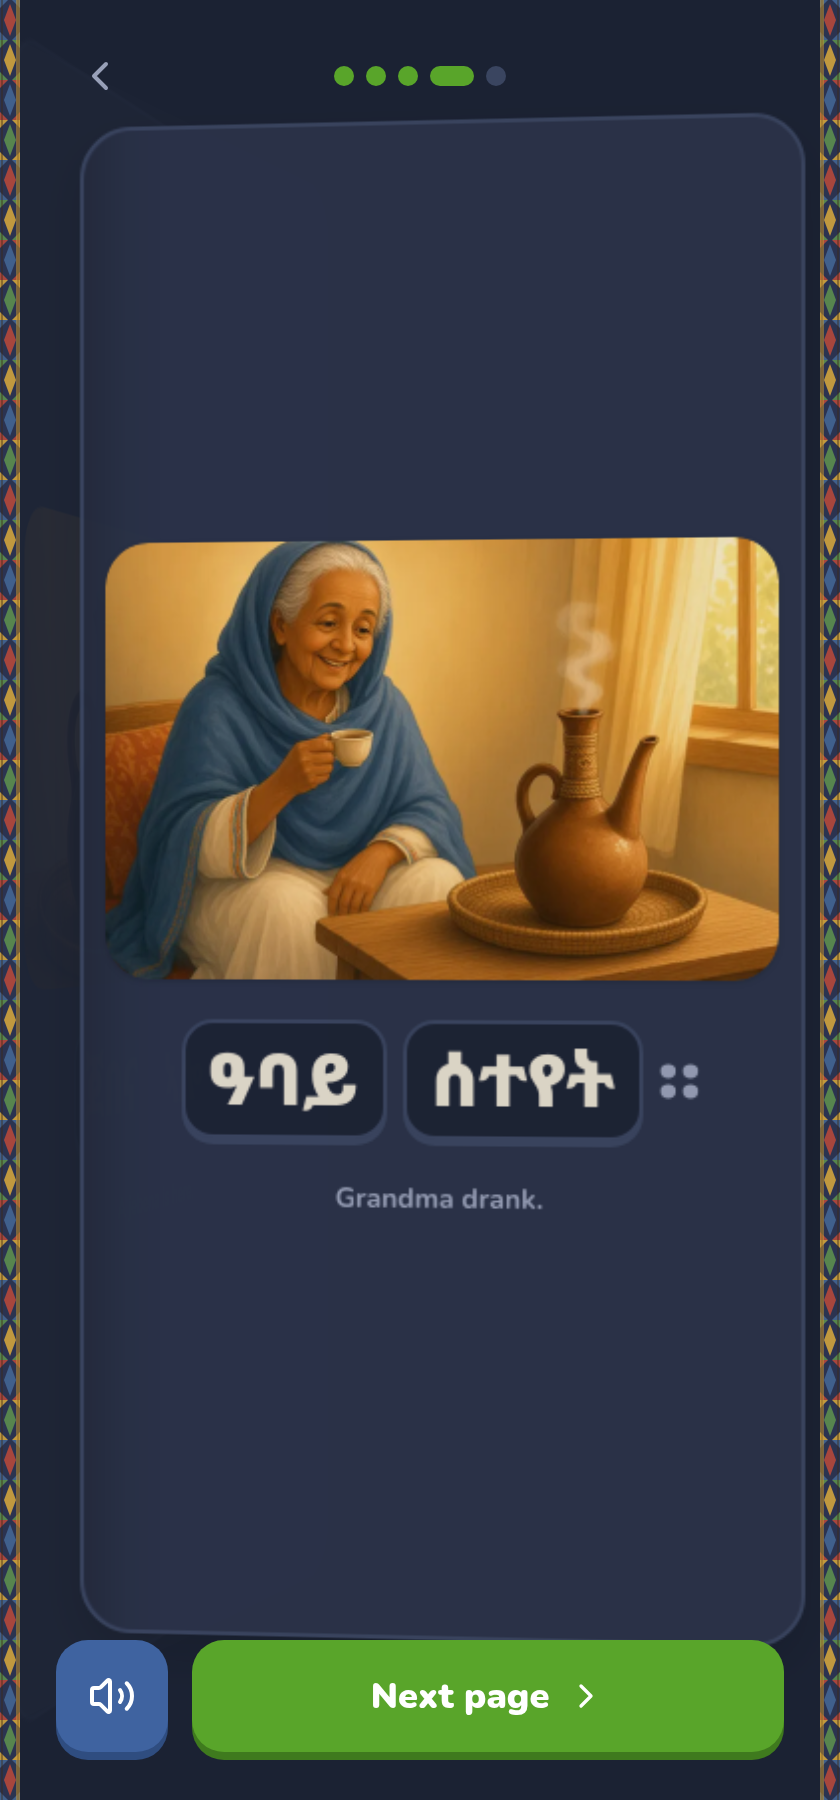
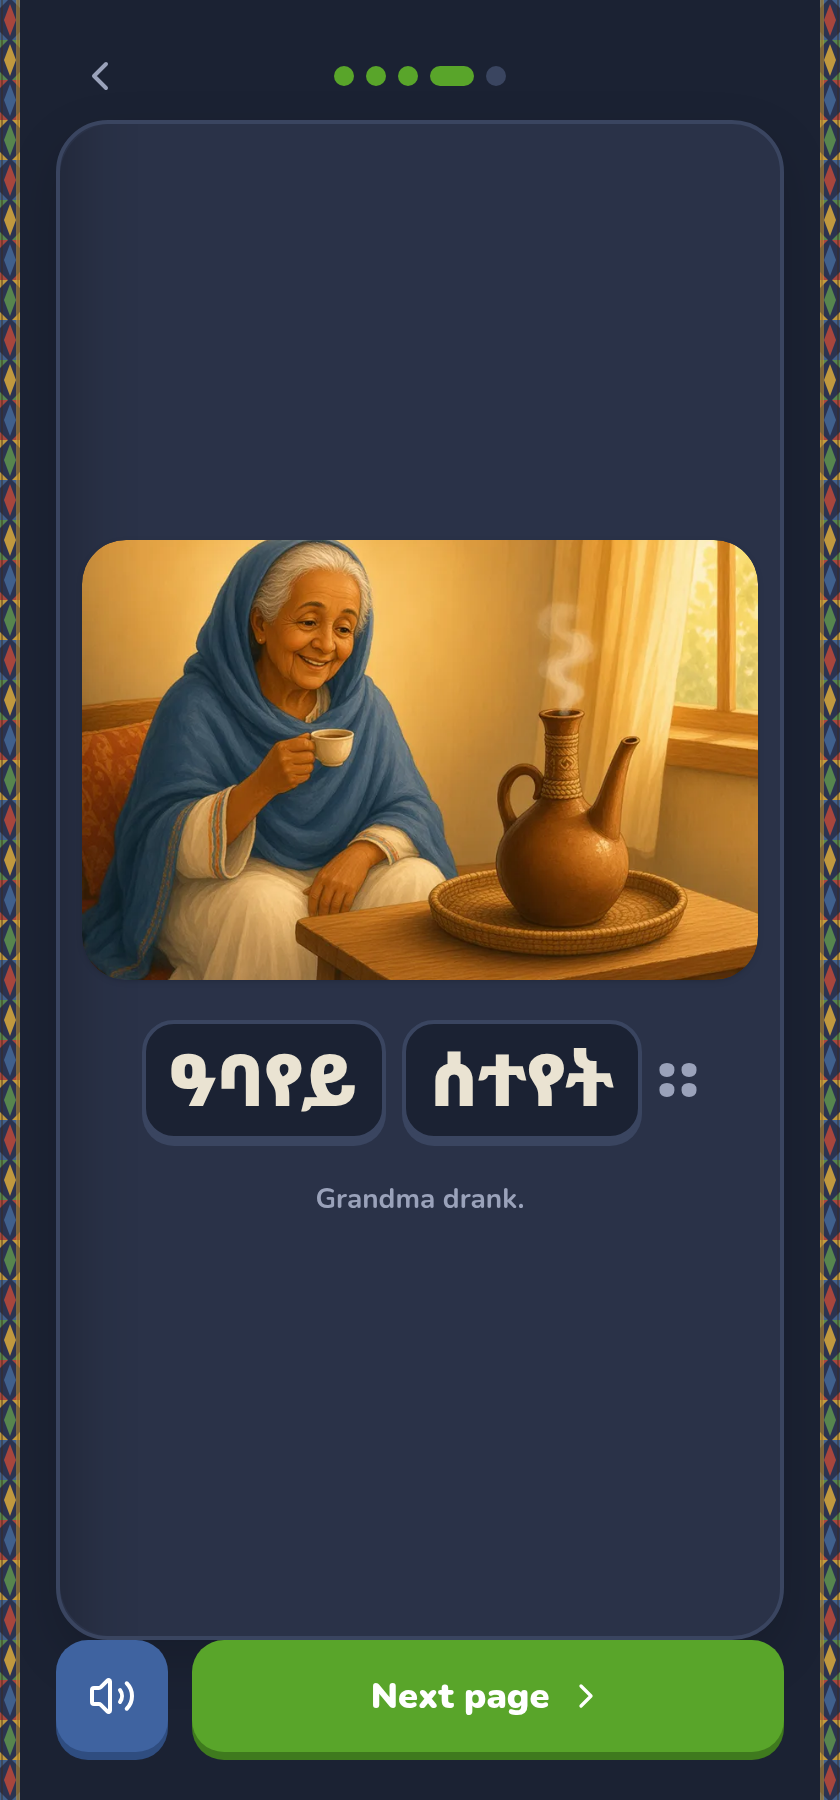
Correct the walk bird and the grandma name.
The walk page now says ጭሩ ኣሎ። ጭ stays in the chhe family, same as ጨ. Coffee With Grandma uses ዓባየይ in the title and in ዓባየይ ሰተየት።

diff --git a/src/data/schoolPathGr1Stories.test.js b/src/data/schoolPathGr1Stories.test.js
@@ -118,8 +118,13 @@ describe('school path story pack', () => {
     expect(byId['walk-to-school'].titleTi).toBe('ናብ ቤት ትምህርቲ')
     expect(byId['walk-to-school'].pages[0].geez).toBe('ቆልዓ ናብ ቤት ትምህርቲ ከደ።')
     expect(byId['walk-to-school'].pages.at(-1).geez).toBe('ቆልዓ ናብ ቤት ትምህርቲ በጽሐ።')
-    expect(byId['coffee-with-grandma'].titleTi).toBe('ጀበና ምስ ዓባይ')
-    expect(byId['coffee-with-grandma'].pages[3].geez).toBe('ዓባይ ሰተየት።')
+    expect(byId['walk-to-school'].pages[2].geez).toBe('ጭሩ ኣሎ።')
+    expect(byId['walk-to-school'].pages[2].meaningEn).toBe('A little bird is there.')
+    expect(byId['walk-to-school'].pages[2].familyIds).toEqual(['chhe', 're', 'a', 'le'])
+    expect(byId['coffee-with-grandma'].titleTi).toBe('ጀበና ምስ ዓባየይ')
+    expect(byId['coffee-with-grandma'].pages[3].geez).toBe('ዓባየይ ሰተየት።')
+    expect(byId['coffee-with-grandma'].pages[3].meaningEn).toBe('Grandma drank.')
+    expect(byId['coffee-with-grandma'].pages[3].familyIds).toEqual(['ae', 'be', 'ye', 'se', 'te'])
     expect(byId['baby-wont-sleep'].pages[1].geez).toBe('ማማ ዘመረት።')
     expect(byId['baby-wont-sleep'].pages[2].geez).toBe('ማማ ቆልዓ ሓዘት።')
     const sun = byId['sun-all-week']
@@ -129,7 +134,7 @@ describe('school path story pack', () => {
     const tiTitles = storyLibrary([], undefined, 'ti').map((s) => s.title.g)
     expect(tiTitles).toContain('ሴም ኣበይ ኣሎ?')
     expect(tiTitles).toContain('ናብ ቤት ትምህርቲ')
-    expect(tiTitles).toContain('ጀበና ምስ ዓባይ')
+    expect(tiTitles).toContain('ጀበና ምስ ዓባየይ')
   })
 
   it('shows the five stories in the Tigrinya library and not in Amharic', () => {

diff --git a/FINDINGS.md b/FINDINGS.md
@@ -34,7 +34,7 @@ The MoE Alphabet book opens on በ / ሰ / ሸ.
 - Tigrinya line pass: Story Time lines are full kid sentences. Where Is Sam?
   asks `ሴም ኣበይ ኣሎ?`, then `ሴም ኣብ ክሽነ የለን።` and `ሴም ኣብ ቤት የለን።` The name
   is `ሴም` (se family) in every story line, title, and refrain. English
-  glosses still say Sam. Grandma is `ዓባይ` with `ሰተየት`. Mom sings and
+  glosses still say Sam. Grandma is `ዓባየይ` with `ሰተየት`. The walk bird is `ጭሩ`. Mom sings and
   holds with feminine verbs. The school walk says the child went and
   then arrived (`በጽሐ`). Each weekday is `ሰኑይ ጸሓይ ኣሎ።` and the same
   pattern for the other days. Spelling stays ኣ, not አ.
